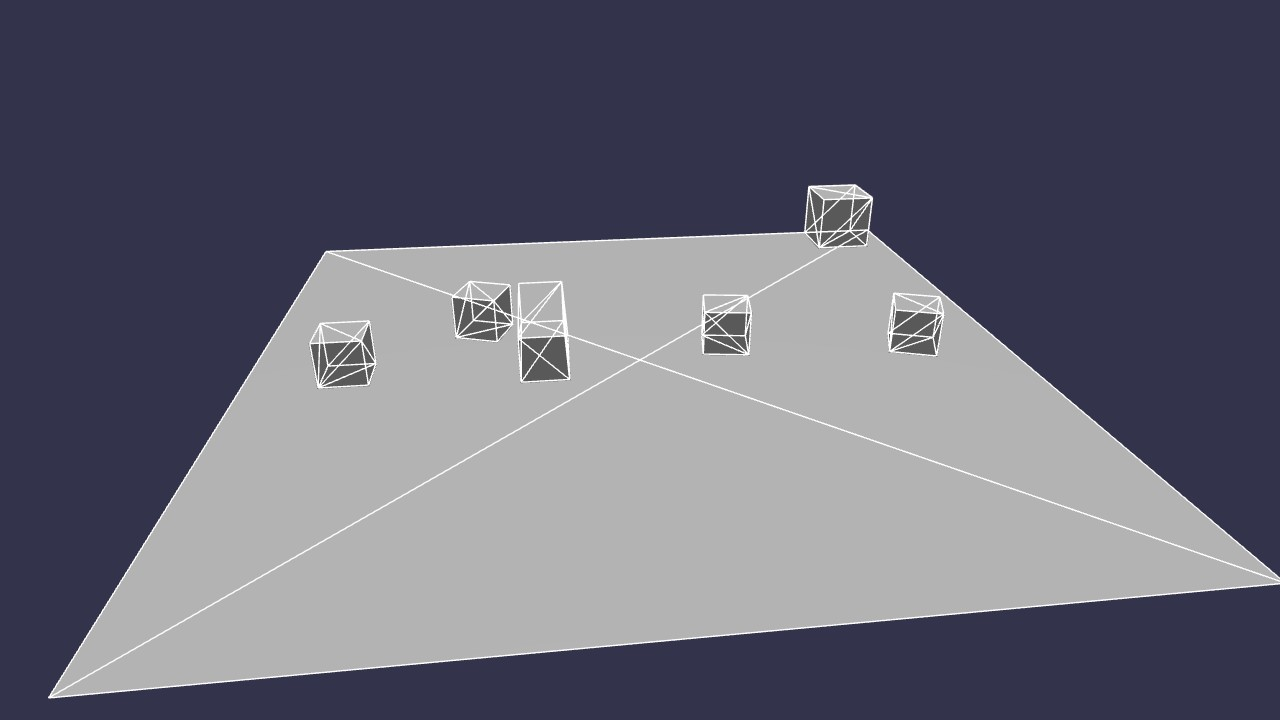
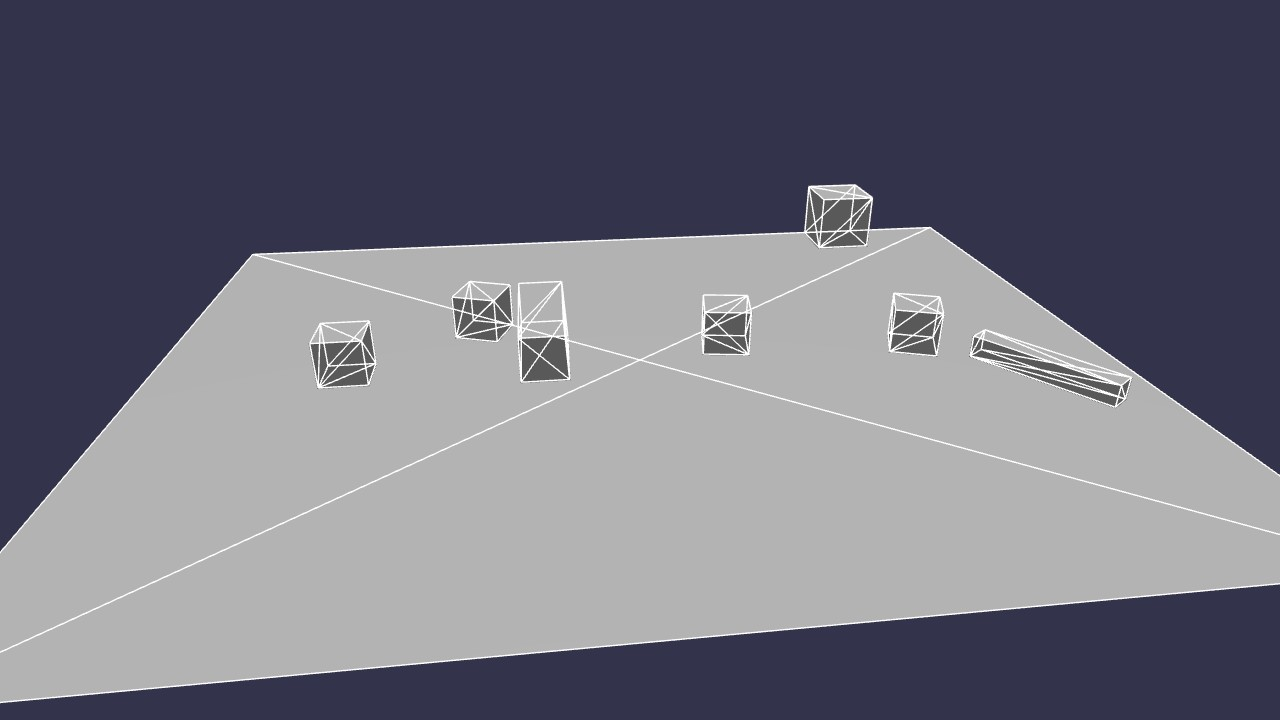
fix(physics): handle non-uniform scale properly in parent transform

diff --git a/packages/babylon-lite/src/physics/havok-transform.ts b/packages/babylon-lite/src/physics/havok-transform.ts
@@ -104,8 +104,43 @@ export function havokTransformToNode(transform: readonly [readonly [number, numb
         const i8 = (wm[4]! * wm[9]! - wm[5]! * wm[8]!) * invDet;
         const i9 = (wm[1]! * wm[8]! - wm[0]! * wm[9]!) * invDet;
         const i10 = (wm[0]! * wm[5]! - wm[1]! * wm[4]!) * invDet;
-        const iwm = [i0, i1, i2, 0, i4, i5, i6, 0, i8, i9, i10];
-        const r = composeMatrixRotation(iwm, rot[0], rot[1], rot[2], rot[3]);
+        // Decompose the complete inverse-parent × desired-world basis; the inverse basis alone is sheared by a rotated parent's non-uniform scale.
+        const qx = rot[0];
+        const qy = rot[1];
+        const qz = rot[2];
+        const qw = rot[3];
+        const xx = qx * qx;
+        const yy = qy * qy;
+        const zz = qz * qz;
+        const xy = qx * qy;
+        const xz = qx * qz;
+        const yz = qy * qz;
+        const wx = qw * qx;
+        const wy = qw * qy;
+        const wz = qw * qz;
+        const w0 = 1 - 2 * (yy + zz);
+        const w1 = 2 * (xy + wz);
+        const w2 = 2 * (xz - wy);
+        const w4 = 2 * (xy - wz);
+        const w5 = 1 - 2 * (xx + zz);
+        const w6 = 2 * (yz + wx);
+        const w8 = 2 * (xz + wy);
+        const w9 = 2 * (yz - wx);
+        const w10 = 1 - 2 * (xx + yy);
+        const local = [
+            i0 * w0 + i4 * w1 + i8 * w2,
+            i1 * w0 + i5 * w1 + i9 * w2,
+            i2 * w0 + i6 * w1 + i10 * w2,
+            0,
+            i0 * w4 + i4 * w5 + i8 * w6,
+            i1 * w4 + i5 * w5 + i9 * w6,
+            i2 * w4 + i6 * w5 + i10 * w6,
+            0,
+            i0 * w8 + i4 * w9 + i8 * w10,
+            i1 * w8 + i5 * w9 + i9 * w10,
+            i2 * w8 + i6 * w9 + i10 * w10,
+        ];
+        const r = composeMatrixRotation(local, 0, 0, 0, 1);
         applyLocalTransform(
             node,
             pos[0] * i0 + pos[1] * i4 + pos[2] * i8 - wm[12]! * i0 - wm[13]! * i4 - wm[14]! * i8,

diff --git a/lab/lite/src/lite/scene306.ts b/lab/lite/src/lite/scene306.ts
@@ -74,8 +74,8 @@ async function main(): Promise<void> {
     light.intensity = 0.7;
     addToScene(scene, light);
 
-    // Ground — 16x16
-    const ground = createGround(engine, { width: 16, height: 16 });
+    // Ground — 20x16
+    const ground = createGround(engine, { width: 20, height: 16 });
     ground.material = createStandardMaterial();
     addToScene(scene, ground);
 
@@ -188,6 +188,28 @@ async function main(): Promise<void> {
     });
     setPhysicsShapeMaterial(world, shape6a, 0.5, 0.1);
     setPhysicsBodyShape(world, body6a, shape6a);
+
+    // dynamic cube7 with offset parent with rotation and non-uniform scale
+    const rotQ7 = eulerXYZToQuatTuple(0, (55 * Math.PI) / 180, 0);
+    const parent7 = createTransformNode("parent7", 8, 3, 0);
+    parent7.rotationQuaternion.set(rotQ7[0], rotQ7[1], rotQ7[2], rotQ7[3]);
+    parent7.scaling.set(3, 0.5, 0.5);
+    addToScene(scene, parent7);
+
+    const cube7 = createBox(engine, 1);
+    cube7.position.set(0.5, 0, -2);
+    cube7.material = cubeMat;
+    cube7.parent = parent7;
+    parent7.children.push(cube7);
+    addToScene(scene, cube7);
+    const body7 = createPhysicsBody(world, cube7, PhysicsMotionType.DYNAMIC);
+    setPhysicsBodyMass(world, body7, 1);
+    const shape7 = createPhysicsShape(world, {
+        type: PhysicsShapeType.BOX,
+        parameters: { extents: vec3(3, 0.5, 0.5) },
+    });
+    setPhysicsShapeMaterial(world, shape7, 0.5, 0.1);
+    setPhysicsBodyShape(world, body7, shape7);
 
     // physics debug viewer
     const physViewer = createPhysicsViewer(scene, world, { color: [1, 1, 1, 1] });

diff --git a/lab/lite/src/bjs/scene306.ts b/lab/lite/src/bjs/scene306.ts
@@ -53,8 +53,8 @@ function readCaptureAfterFrames(): number | null {
     const light = new HemisphericLight("light", new Vector3(0, 1, 0), scene);
     light.intensity = 0.7;
 
-    // Ground — 16x16
-    const ground = MeshBuilder.CreateGround("ground", { width: 16, height: 16 }, scene);
+    // Ground — 20x16
+    const ground = MeshBuilder.CreateGround("ground", { width: 20, height: 16 }, scene);
 
     // Havok physics
     const havokInstance = await HavokPhysics({ locateFile: () => "/HavokPhysics.wasm" });
@@ -157,6 +157,21 @@ function readCaptureAfterFrames(): number | null {
     cube6.parent = matNode6a;
     cube6.material = cubeMat;
     const body6a = new PhysicsAggregate(matNode6a, new PhysicsShapeBox(Vector3.Zero(), Quaternion.Identity(), new Vector3(1, 1, 1), scene), {
+        mass: 1,
+        friction: 0.5,
+        restitution: 0.1,
+    });
+
+    const parent7 = new TransformNode("parent7", scene);
+    parent7.position.set(8, 3, 0);
+    parent7.rotationQuaternion = Quaternion.FromEulerAngles(0, (55 * Math.PI) / 180, 0);
+    parent7.scaling.set(3, 0.5, 0.5);
+
+    const cube7 = MeshBuilder.CreateBox("cube7", undefined, scene);
+    cube7.position.set(0.5, 0, -2);
+    cube7.material = cubeMat;
+    cube7.parent = parent7;
+    new PhysicsAggregate(cube7, PhysicsShapeType.BOX, {
         mass: 1,
         friction: 0.5,
         restitution: 0.1,
